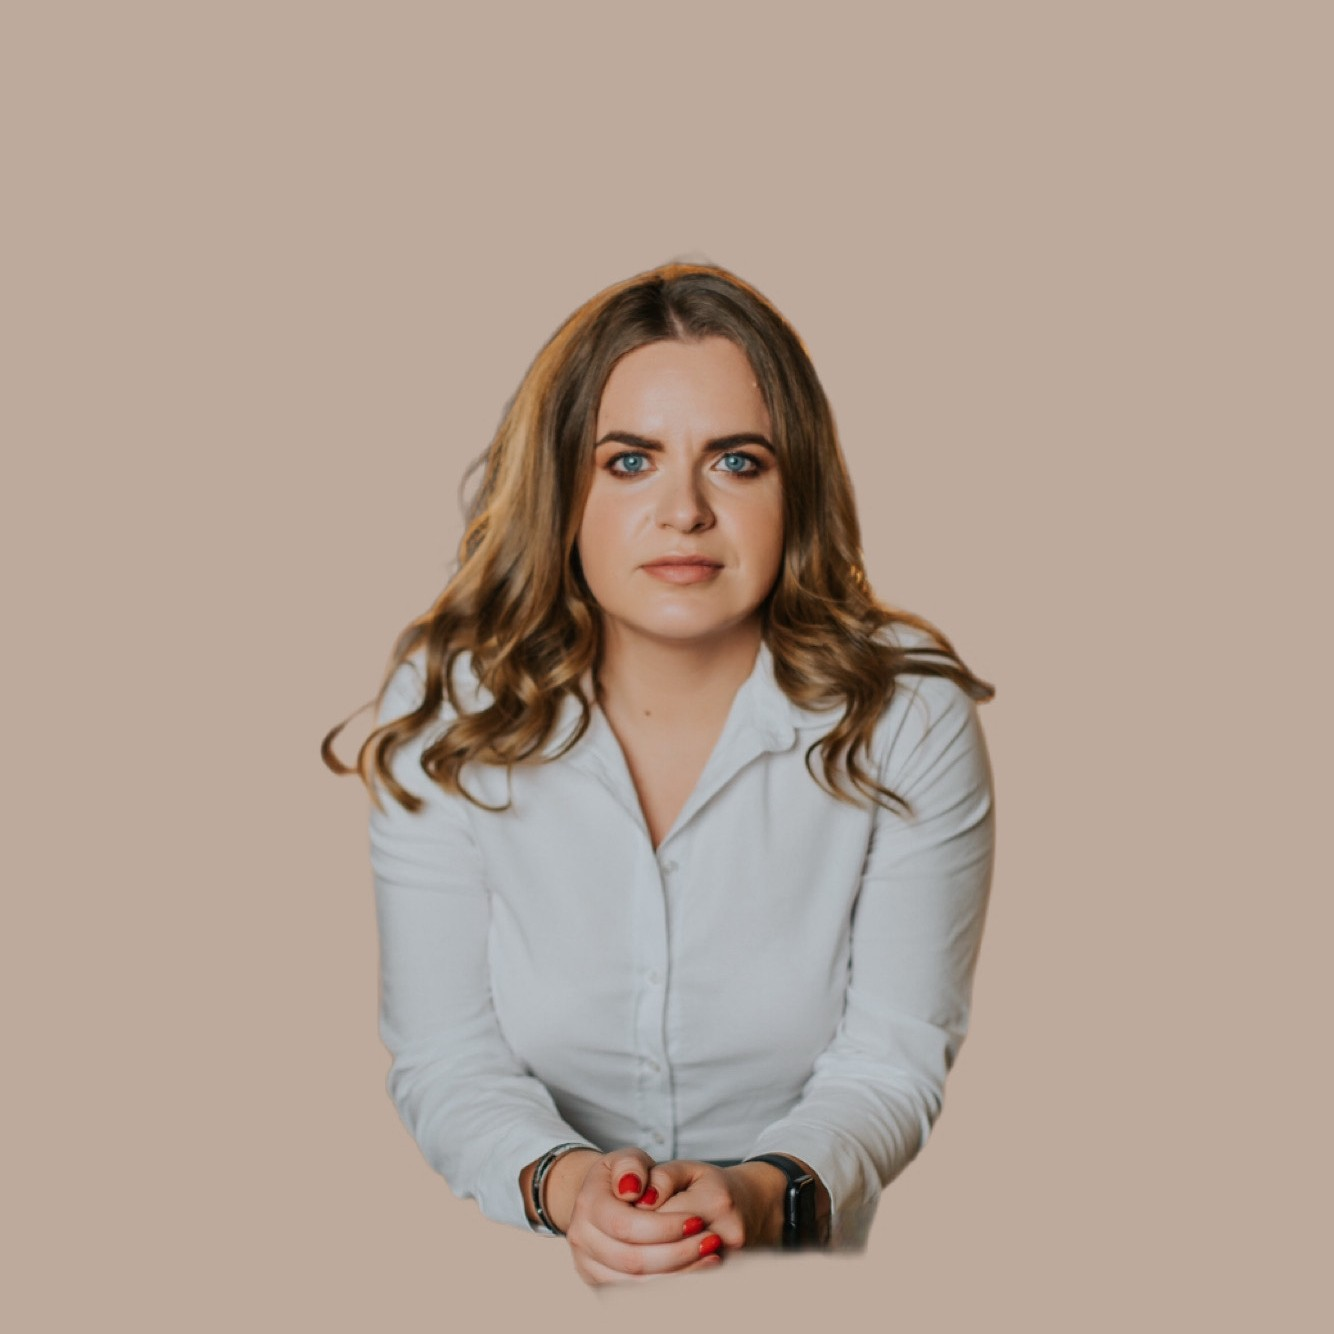
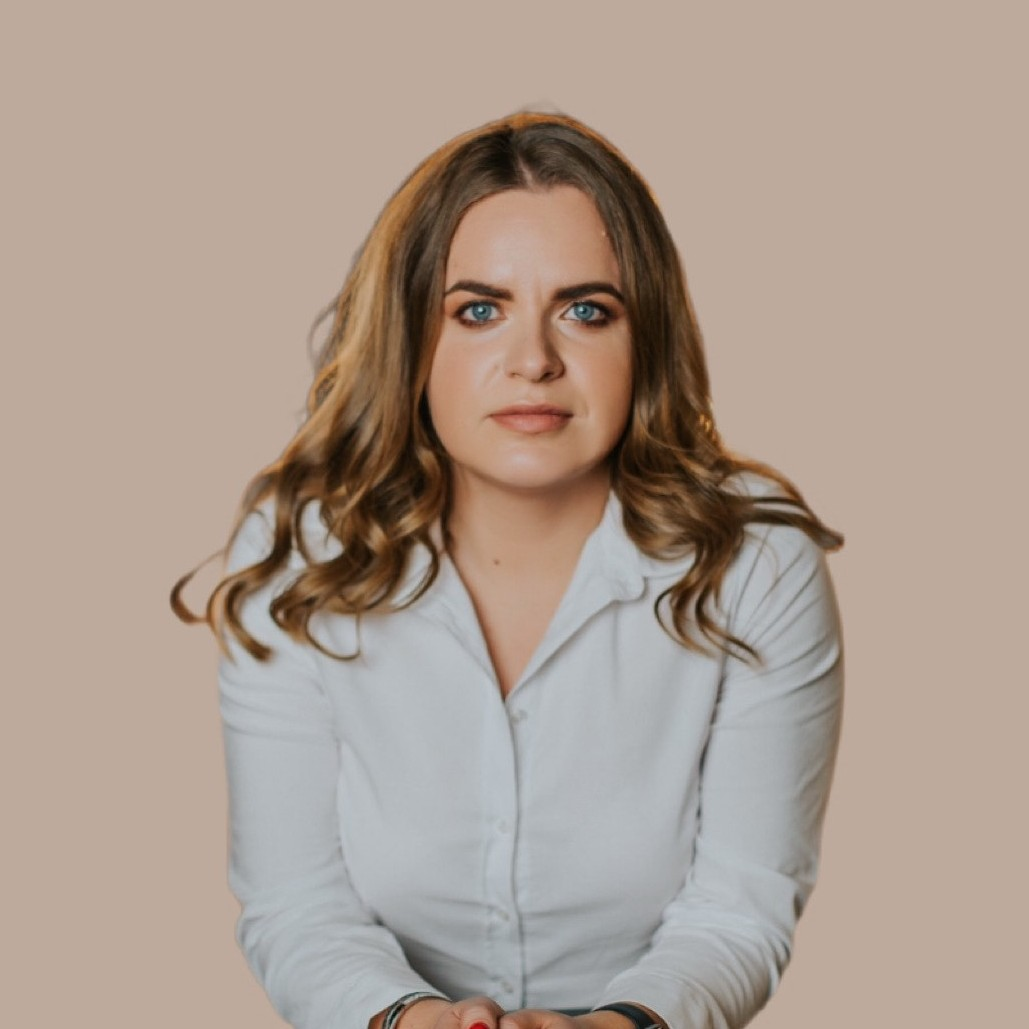
Third wave of changes
- form enabled
- photo fixed
- about section updated
- header fixed
- sticky menu links fixed
- new logo added

Changed region(s): [[0.1555, 0.0933, 0.8397, 1.0]]

diff --git a/index.html b/index.html
@@ -67,12 +67,12 @@
             <div class="navigation-social">
               <ul class="footer__social">
                 <li class="footer__social--link">
-                  <a href="https://www.linkedin.com/company/gomedglobal" target="_blank"><svg width="35" height="35" viewBox="0 0 35 35" fill="#041e3a" xmlns="http://www.w3.org/2000/svg">
+                  <a href="https://www.linkedin.com/company/gomedglobal" target="_blank"><svg width="35" height="35" viewBox="0 0 35 35" fill="#123458" xmlns="http://www.w3.org/2000/svg">
                   <path d="M17.2422 0.639648C7.85394 0.639648 0.242188 8.25034 0.242188 17.6396C0.242188 27.0279 7.85394 34.6396 17.2422 34.6396C26.6304 34.6396 34.2422 27.0279 34.2422 17.6396C34.2422 8.25034 26.6304 0.639648 17.2422 0.639648ZM12.8264 24.309H9.35844V13.8752H12.8264V24.309ZM11.0924 12.4504H11.0701C9.90563 12.4504 9.15338 11.6482 9.15338 10.6473C9.15338 9.62415 9.929 8.84534 11.1147 8.84534C12.3005 8.84534 13.0315 9.62415 13.0538 10.6473C13.0538 11.6493 12.3005 12.4504 11.0924 12.4504ZM25.331 24.309H21.863V18.7266C21.863 17.3241 21.3615 16.3678 20.1056 16.3678C19.1483 16.3678 18.5777 17.0128 18.327 17.6365C18.2356 17.8596 18.2123 18.1709 18.2123 18.4822V24.309H14.7453C14.7453 24.309 14.791 14.8548 14.7453 13.8752H18.2133V15.3531C18.6734 14.6423 19.4979 13.6298 21.3392 13.6298C23.6204 13.6298 25.331 15.1215 25.331 18.326V24.309Z"></path>
                 </svg></a>
               </li>
               <li class="footer__social--link">
-              <a href="https://www.instagram.com/gomedglobal" target="_blank"><svg width="35" height="35" padding-right="10px" viewBox="0 0 35 35" fill="#041e3a" xmlns="http://www.w3.org/2000/svg">
+              <a href="https://www.instagram.com/gomedglobal" target="_blank"><svg width="35" height="35" padding-right="10px" viewBox="0 0 35 35" fill="#123458" xmlns="http://www.w3.org/2000/svg">
                 <path d="M17.2412 21.0429C19.1167 21.0429 20.6458 19.5166 20.6458 17.6396C20.6458 16.8987 20.4034 16.2146 20.0021 15.6558C19.3838 14.7985 18.3786 14.2363 17.2432 14.2363C16.1072 14.2363 15.1026 14.7978 14.4829 15.6552C14.0803 16.2139 13.8399 16.898 13.8392 17.6389C13.8372 19.5159 15.3649 21.0429 17.2412 21.0429Z"></path>
                 <path d="M24.6728 13.4763V10.199L21.3949 10.2093L21.4058 13.4873L24.6728 13.4763Z"></path>
                 <path d="M17.2417 0.639648C7.86794 0.639648 0.241699 8.26589 0.241699 17.6396C0.241699 27.0127 7.86794 34.6396 17.2417 34.6396C26.6148 34.6396 34.2417 27.0127 34.2417 17.6396C34.2417 8.26589 26.6161 0.639648 17.2417 0.639648ZM26.9099 23.5718C26.9099 25.6336 25.2336 27.3092 23.1731 27.3092H11.3103C9.24911 27.3092 7.57349 25.6336 7.57349 23.5718V11.7089C7.57349 9.64775 9.24911 7.97212 11.3103 7.97212H23.1725C25.2336 7.97212 26.9099 9.64775 26.9099 11.7089V23.5718Z"></path>
@@ -135,10 +135,32 @@
                 </div>
               </div>
               <div class="navigation-social">
-                <a href="https://www.linkedin.com/company/gomedglobal" target="_blank"><img src="img/linkedin_logo.png"
-                    alt="linkedin"></a>
-                <a href="https://www.instagram.com/gomedglobal" target="_blank"><img src="img/instagram_logo.png"
-                    alt="Instagram"></a>
+                <ul class="footer__social">
+                  <li class="footer__social--link">
+                    <a href="https://www.linkedin.com/company/gomedglobal" target="_blank"><svg width="35" height="35" viewBox="0 0 35 35" fill="#ffffff" xmlns="http://www.w3.org/2000/svg">
+                    <path d="M17.2422 0.639648C7.85394 0.639648 0.242188 8.25034 0.242188 17.6396C0.242188 27.0279 7.85394 34.6396 17.2422 34.6396C26.6304 34.6396 34.2422 27.0279 34.2422 17.6396C34.2422 8.25034 26.6304 0.639648 17.2422 0.639648ZM12.8264 24.309H9.35844V13.8752H12.8264V24.309ZM11.0924 12.4504H11.0701C9.90563 12.4504 9.15338 11.6482 9.15338 10.6473C9.15338 9.62415 9.929 8.84534 11.1147 8.84534C12.3005 8.84534 13.0315 9.62415 13.0538 10.6473C13.0538 11.6493 12.3005 12.4504 11.0924 12.4504ZM25.331 24.309H21.863V18.7266C21.863 17.3241 21.3615 16.3678 20.1056 16.3678C19.1483 16.3678 18.5777 17.0128 18.327 17.6365C18.2356 17.8596 18.2123 18.1709 18.2123 18.4822V24.309H14.7453C14.7453 24.309 14.791 14.8548 14.7453 13.8752H18.2133V15.3531C18.6734 14.6423 19.4979 13.6298 21.3392 13.6298C23.6204 13.6298 25.331 15.1215 25.331 18.326V24.309Z"></path>
+                  </svg></a>
+                </li>
+                <li class="footer__social--link">
+                <a href="https://www.instagram.com/gomedglobal" target="_blank"><svg width="35" height="35" padding-right="10px" viewBox="0 0 35 35" fill="#ffffff" xmlns="http://www.w3.org/2000/svg">
+                  <path d="M17.2412 21.0429C19.1167 21.0429 20.6458 19.5166 20.6458 17.6396C20.6458 16.8987 20.4034 16.2146 20.0021 15.6558C19.3838 14.7985 18.3786 14.2363 17.2432 14.2363C16.1072 14.2363 15.1026 14.7978 14.4829 15.6552C14.0803 16.2139 13.8399 16.898 13.8392 17.6389C13.8372 19.5159 15.3649 21.0429 17.2412 21.0429Z"></path>
+                  <path d="M24.6728 13.4763V10.199L21.3949 10.2093L21.4058 13.4873L24.6728 13.4763Z"></path>
+                  <path d="M17.2417 0.639648C7.86794 0.639648 0.241699 8.26589 0.241699 17.6396C0.241699 27.0127 7.86794 34.6396 17.2417 34.6396C26.6148 34.6396 34.2417 27.0127 34.2417 17.6396C34.2417 8.26589 26.6161 0.639648 17.2417 0.639648ZM26.9099 23.5718C26.9099 25.6336 25.2336 27.3092 23.1731 27.3092H11.3103C9.24911 27.3092 7.57349 25.6336 7.57349 23.5718V11.7089C7.57349 9.64775 9.24911 7.97212 11.3103 7.97212H23.1725C25.2336 7.97212 26.9099 9.64775 26.9099 11.7089V23.5718Z"></path>
+                  <path d="M22.5302 17.6392C22.5302 20.5542 20.1581 22.9276 17.2417 22.9276C14.3253 22.9276 11.9539 20.5542 11.9539 17.6392C11.9539 16.938 12.0936 16.2676 12.3429 15.6554H9.4566V23.5713C9.4566 24.5943 10.2872 25.4229 11.3096 25.4229H23.1718C24.1928 25.4229 25.0248 24.5943 25.0248 23.5713V15.6554H22.1371C22.3884 16.2676 22.5302 16.938 22.5302 17.6392Z"></path>
+                </svg></a>
+              </li>
+                <li class="footer__social--link">
+                    <a href="https://www.instagram.com/gomedglobal" target="_blank"><svg width="35" height="35" viewBox="0 0 35 35" fill="#ffffff" xmlns="http://www.w3.org/2000/svg">
+                      <path d="M17.2417 0.639648C7.86794 0.639648 0.241699 8.26589 0.241699 17.6396C0.241699 27.0127 7.86794 34.6396 17.2417 34.6396C26.6148 34.6396 34.2417 27.0127 34.2417 17.6396C34.2417 8.26589 26.6161 0.639648 17.2417 0.639648ZM21.4694 18.2381H18.7037C18.7037 22.6569 18.7037 28.096 18.7037 28.096H14.6053C14.6053 28.096 14.6053 22.7097 14.6053 18.2381H12.6572V14.754H14.6053V12.5005C14.6053 10.8865 15.3723 8.36449 18.7413 8.36449L21.7783 8.37613V11.7582C21.7783 11.7582 19.9328 11.7582 19.574 11.7582C19.2152 11.7582 18.705 11.9376 18.705 12.7073V14.7547H21.8276L21.4694 18.2381Z"></path>
+                    </svg></a>
+                  </li>
+                <li class="footer__social--link">
+                    <a href="https://www.instagram.com/gomedglobal" target="_blank"><svg width="35" height="36" viewBox="0 0 35 35" fill="#ffffff" xmlns="http://www.w3.org/2000/svg">
+                      <path d="M23.4055 24.7034H21.831L11.5533 11.49H13.2427L23.4055 24.7034Z"></path>
+                      <path fill-rule="evenodd" clip-rule="evenodd" d="M17.5 35.6406C27.165 35.6406 35 27.8056 35 18.1406C35 8.47564 27.165 0.640625 17.5 0.640625C7.83502 0.640625 0 8.47564 0 18.1406C0 27.8056 7.83502 35.6406 17.5 35.6406ZM25.6694 9.90533H22.8283L18.1462 15.1682L14.0981 9.90533H8.23529L15.2404 18.9135L8.60114 26.3759H11.4442L16.5685 20.6179L21.0467 26.3759H26.7647L19.4622 16.8822L25.6694 9.90533Z"></path>
+                    </svg></a>
+                  </li>
+                  </ul>
               </div>
               <!-- <div class="navigation-social">
                 <a href="https://www.instagram.com/gomedglobal" target="_blank"><img src="img/instagram_logo.png"
@@ -192,23 +214,20 @@
           <h2 class="about__title">About us</h2>
           <span class="divider"></span>
           <p class="about__description" id="services">
-            We are a trusted global partner in growth for MedTech companies, providing smart, efficient market access
-            solutions driven by advanced data, technology, and deep industry expertise.
+            <span style="font-weight: 700;">GoMED Global</span> is a trusted partner for MedTech companies, driving growth through smart, efficient market access solutions powered by advanced data, technology, and deep industry expertise.
           </p>
           <p class="about__description">
-            We are a trusted global partner in growth for MedTech companies, providing smart, efficient market access
-            solutions driven by advanced data, technology, and deep industry expertise.
+            Our commitment to innovation and regulatory excellence ensures seamless market entry, helping MedTech companies scale faster and with confidence.
           </p>
           <p class="about__description" id="services">
-            We are a trusted global partner in growth for MedTech companies, providing smart, efficient market access
-            solutions driven by advanced data, technology, and deep industry expertise.
+            We offer tailored solutions that bridge the gap between complex regulatory landscapes and your product's global potential, simplifying the path to market success.
           </p>
           <!-- <div>
             <a href="http://shchedryk.com.ua/about" class="about__link" target="_blank">БІЛЬШЕ ПРО НАС</a>
           </div> -->
         </div>
         <div class="about__info--photo">
-          <img class="about-photo" src="img/business.jpg" alt="shaking hands" />
+          <img class="about-photo" src="img/about_img.jpg" alt="shaking hands" />
         </div>
       </section>
     </div>
@@ -220,39 +239,39 @@
             <span class="divider-awards"></span>
           </div>
           <div class="awards__wrapper award1">
-            <p class="awards__year">Placeholder</p>
+            <p class="awards__year">Global Market Entry</p>
             <p class="awards__description">
-              Placeholder
+              We assist in identifying potential markets for expansion by leveraging your existing registrations and approvals.
             </p>
           </div>
           <div class="awards__wrapper award2">
-            <p class="awards__year">Placeholder</p>
+            <p class="awards__year">Product Classification and Grouping</p>
             <p class="awards__description">
-              Placeholder
+              We collaborate with our local regulatory experts to provide strategic support in determining the classification of your product portfolio and the required number of registrations.
             </p>
           </div>
           <div class="awards__wrapper award3">
-            <p class="awards__year">Placeholder</p>
+            <p class="awards__year">Regulatory Strategy</p>
             <p class="awards__description">
-              Placeholder
+              We outline the necessary steps for registering your product portfolio in the designated countries.
             </p>
           </div>
           <div class="awards__wrapper award4">
-            <p class="awards__year">Placeholder</p>
+            <p class="awards__year">Product Portfolio Submission</p>
             <p class="awards__description">
-              Placeholder
+              We prepare the technical dossier for submission by applying industry best practices and leveraging our extensive knowledge and experience
             </p>
           </div>
           <div class="awards__wrapper award5">
-            <p class="awards__year">Placeholder</p>
+            <p class="awards__year">Submission to Regulatory Authorities</p>
             <p class="awards__description">
-              Placeholder
+              Our local regulatory experts in each market liaise with the respective authorities to facilitate the submission of the technical dossier and ensure the timely receipt of your product registration certificate.
             </p>
           </div>
           <div class="awards__wrapper award6">
-            <p class="awards__year">Placeholder</p>
+            <p class="awards__year">Other Services</p>
             <p class="awards__description">
-              Placeholder
+              We provide comprehensive market analysis, lifecycle management, and targeted training to support effective navigation of global healthcare markets.
             </p>
           </div>
         </div>
@@ -415,16 +434,16 @@
               <div class="contacts__form">
               <h2 class="application__title">Contact form</h2>
 
-              <form id="apply-form" action="https://formspree.io/f/" method="post"
+              <form id="contact-form" action="https://formspree.io/f/mdkgkaww" method="post"
                   enctype="multipart/form-data">
                   <input type="text" placeholder="Name*" id="last-name" name="last-name" required>
                   <input type="email" placeholder="Email" id="email" name="email" required>
                   <input type="text" placeholder="Phone number*" id="phone-number" name="phone-number" required>
                   
                   <textarea name="comment" id="comment" placeholder="Your question"></textarea>
-                  <input id="submit" type="submit" form="apply-form" value="Submit">
+                  <input id="submit" type="submit" form="contact-form" value="Submit">
                   </fieldset>
-                  <p id="apply-form-status"></p>
+                  <p id="contacts__form--status"></p>
               </form>
             </div>
               
@@ -488,8 +507,9 @@
   </footer>
   <script type="text/javascript" src="js/index.js"></script>
   <script type="text/javascript" src="js/burger-menu.js"></script>
-  <script type="text/javascript" src="js/testimonials.js"></script>
-  <script type="text/javascript" src="js/partners-carousel.js"></script>
+  <script type="text/javascript" src="js/contact-form.js"></script>
+  <!-- <script type="text/javascript" src="js/testimonials.js"></script>
+  <script type="text/javascript" src="js/partners-carousel.js"></script> -->
 </body>
 
 </html>

diff --git a/js/contact-form.js b/js/contact-form.js
@@ -1,18 +1,18 @@
 (function () {
-  const dateField = document.querySelector("#date-field");
-  const date = document.querySelector("#date");
+  // const dateField = document.querySelector("#date-field");
+  // const date = document.querySelector("#date");
 
-  function dateFieldSwitch() {
-    dateField.style.display = "none";
-    date.style.display = "block";
-  }
+  // function dateFieldSwitch() {
+  //   dateField.style.display = "none";
+  //   date.style.display = "block";
+  // }
 
-  dateField.addEventListener("focus", dateFieldSwitch);
+  // dateField.addEventListener("focus", dateFieldSwitch);
 
-  const form = document.getElementById("apply-form");
+  const form = document.getElementById("contact-form");
   async function handleSubmit(event) {
     event.preventDefault();
-    const status = document.getElementById("apply-form-status");
+    const status = document.getElementById("contacts__form--status");
     const data = new FormData(event.target);
     fetch(event.target.action, {
       method: form.method,
@@ -23,7 +23,7 @@
     })
       .then((response) => {
         if (response.ok) {
-          status.innerHTML = "Дякуємо за заявку, ми з вами зв'яжемося!";
+          status.innerHTML = "Thank you for your inquiry! We'll get in touch with you asap!";
           form.reset();
         } else {
           response.json().then((data) => {
@@ -33,14 +33,14 @@
                 .join(", ");
             } else {
               status.innerHTML =
-                "Вибачте, здається щось пішло не так під час відправлення заявки.";
+                "Oops, something went wrong. Please try other contact options";
             }
           });
         }
       })
       .catch((error) => {
         status.innerHTML =
-          "Вибачте, здається щось пішло не так під час відправлення заявки.";
+          "ВOops, something went wrong. Please try other contact options";
       });
   }
   form.addEventListener("submit", handleSubmit);

diff --git a/css/index-sticky-menu.css b/css/index-sticky-menu.css
@@ -4,7 +4,7 @@
 }
 
 section div nav .navigation-logo-sticky img {
-    max-width: 114px;
+    max-width: 150px;
 }
 
 @media (max-width: 990px) {
@@ -101,7 +101,7 @@ section div nav .navigation-logo-sticky img {
         opacity: 0.95;
         z-index: 2;
         padding: 15px 24px 50px 24px;
-        transition: top 0.3s ease-in 0.1s;
+        transition: top 0.5s ease-in 0.3s;
         overflow: hidden;
         margin: auto;
     }
@@ -241,8 +241,8 @@ section div nav .navigation-logo-sticky img {
         width: 1200px;
         margin: auto;
         display: grid;
-        grid-template-columns: auto 90%;
-        padding: 10px 45px 10px 45px;
+        grid-template-columns: 15% 80%;
+        padding: 10px 40px 10px 40px;
     }
 
     .navigation-burger-sticky {
@@ -259,7 +259,7 @@ section div nav .navigation-logo-sticky img {
     }
 
     .navigation-logo-sticky img {
-        max-width: 100px;
+        max-width: 150px;
     }
 
     .navigation-logo-sticky img:hover {
@@ -272,7 +272,7 @@ section div nav .navigation-logo-sticky img {
 
     .navigation-wrapper-sticky {
         display: grid;
-        grid-template-columns: 90% 10%;
+        grid-template-columns: 80% 20%;
         grid-template-rows: auto;
         justify-content: space-evenly;
         align-items: center;

diff --git a/css/index-form.css b/css/index-form.css
@@ -242,29 +242,30 @@ form select {
     display: none;
 }
 
-#apply-form-status {
+#contacts__form--status {
     font-family: inherit;
     font-size: 1rem;
-    color: var(--headings-dark-color);
+    color: var(--white-background);
     font-weight: 700;
     border-radius: 8px;
     display: block;
     margin: 0 auto;
     padding: 0 12px;
-    width: 70vw;
+    width: 80%;
+    text-align: center;
 }
 
 @media (min-width: 1024px) {
 
-    #apply-form-status {
-        max-width: 50vw;
+    #contacts__form--status {
+        max-width: 80%;
 
     }
 }
 
 @media (min-width: 1200px) {
 
-    #apply-form-status {
-        max-width: 70%;
+    #contacts__form--status {
+        max-width: 80%;
     }
 }

diff --git a/css/index-footer.css b/css/index-footer.css
@@ -238,12 +238,10 @@
     -webkit-box-flex: 1;
     -ms-flex-positive: 1;
     flex-grow: 1;
-    position: absolute;
     white-space: nowrap;
     display: flex;
     justify-content: space-between;
     align-items: center;
-    padding: 0px;
 }
 
 .footer__social--link {

diff --git a/css/index-awards.css b/css/index-awards.css
@@ -72,7 +72,7 @@
     text-align: center;
     font-family: var(--main-text-font);
     font-size: 1rem;
-    font-weight: 700;
+    font-weight: 500;
     color: var(--headings-dark-color);
     overflow-wrap: break-word;
 }

diff --git a/css/index-header.css b/css/index-header.css
@@ -135,7 +135,7 @@ header .banner-bg_origin {
 } */
 
 section div nav .navigation-logo img {
-    max-width: 114px;
+    max-width: 150px;
 }
 
 section div nav .navigation-logo img:hover {
